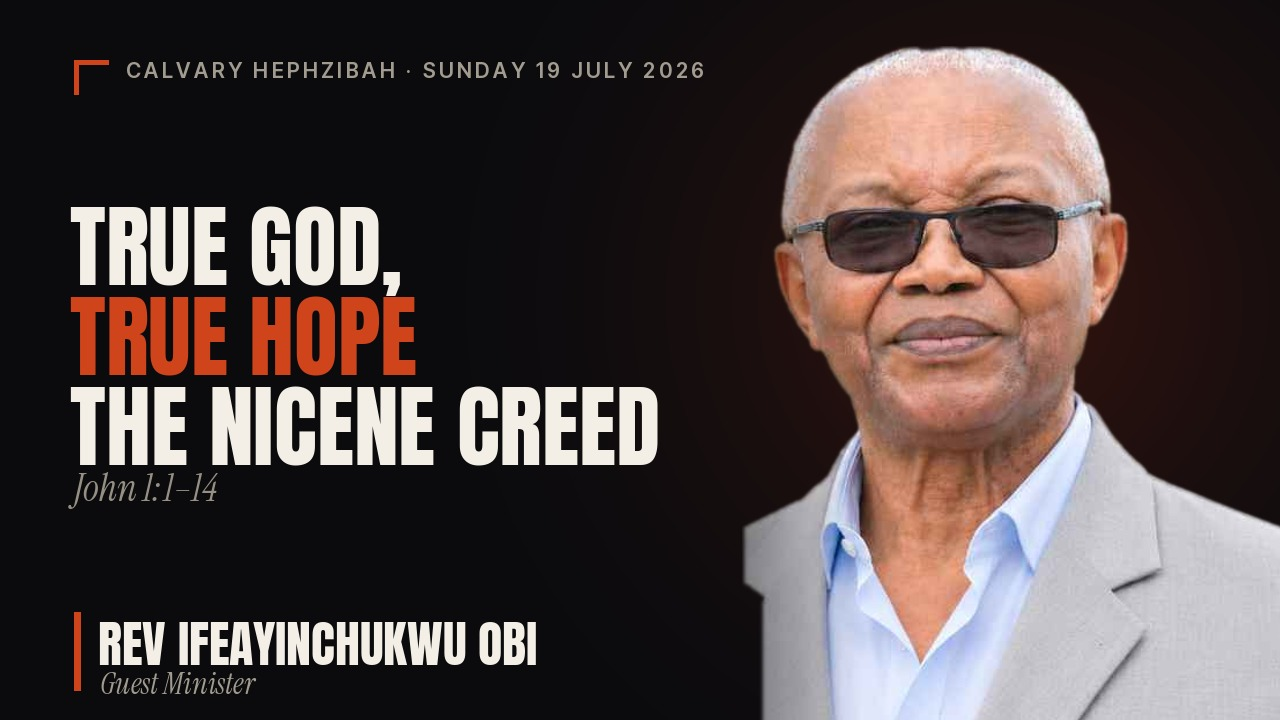
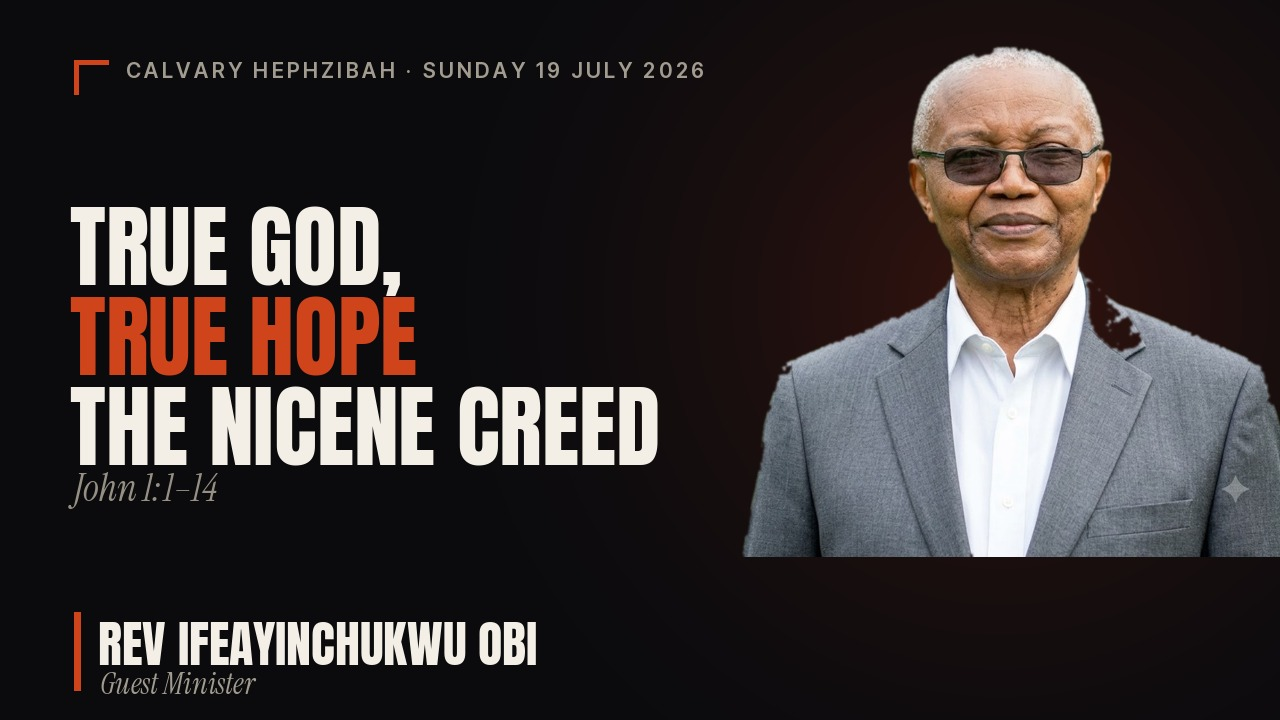
19 Jul: regenerate sermon thumbnail with Rev Obi's new headshot; cache-bust v3
Rebuilt sermon-thumbnail-19-jul-2026.jpg from the new library headshot
(preachers/ifeayinchukwu-obi.jpg) via the standard pipeline — same design,
sharper/cleaner portrait. Bumped briefing OG cache-buster v2 -> v3.

Changed region(s): [[0.5625, 0.0611, 1.0, 1.0]]

diff --git a/media-briefing-19-jul-2026.html b/media-briefing-19-jul-2026.html
@@ -6,11 +6,11 @@
     <title>Calvary Service Run Sheet – 19th July 2026</title>
     <meta property="og:title" content="Calvary Service Run Sheet – 19th July 2026">
     <meta property="og:description" content="Sunday 19th July 2026 | True GOD, True Hope: Why The Nicene Creed | Rev Ifeayinchukwu Obi | Calvary Hephzibah">
-    <meta property="og:image" content="https://calvaryhfgc.github.io/calvaryhephzibah/sermon-thumbnail-19-jul-2026.jpg?v=2">
+    <meta property="og:image" content="https://calvaryhfgc.github.io/calvaryhephzibah/sermon-thumbnail-19-jul-2026.jpg?v=3">
     <meta property="og:image:width" content="1280">
     <meta property="og:image:height" content="720">
     <meta name="twitter:card" content="summary_large_image">
-    <meta name="twitter:image" content="https://calvaryhfgc.github.io/calvaryhephzibah/sermon-thumbnail-19-jul-2026.jpg?v=2">
+    <meta name="twitter:image" content="https://calvaryhfgc.github.io/calvaryhephzibah/sermon-thumbnail-19-jul-2026.jpg?v=3">
     <link rel="preconnect" href="https://fonts.googleapis.com">
     <link rel="preconnect" href="https://fonts.gstatic.com" crossorigin>
     <link href="https://fonts.googleapis.com/css2?family=Cormorant+Garamond:wght@600;700&family=DM+Sans:wght@400;500;600;700&display=swap" rel="stylesheet">
@@ -242,7 +242,7 @@
             <div class="serm-preacher">Rev Ifeayinchukwu Obi · Guest Minister</div>
             <h3 class="serm-title">True GOD, True Hope: Why The Nicene Creed</h3>
             <div style="font-size:13px;color:rgba(255,255,255,0.6);margin-bottom:14px;">John 1:1–14</div>
-            <img src="https://calvaryhfgc.github.io/calvaryhephzibah/sermon-thumbnail-19-jul-2026.jpg?v=2" alt="Rev Ifeayinchukwu Obi — True GOD, True Hope: Why The Nicene Creed" class="serm-thumb">
+            <img src="https://calvaryhfgc.github.io/calvaryhephzibah/sermon-thumbnail-19-jul-2026.jpg?v=3" alt="Rev Ifeayinchukwu Obi — True GOD, True Hope: Why The Nicene Creed" class="serm-thumb">
             <div class="serm-note"><span>💡</span><span>Display sermon thumbnail for 30 seconds as Rev Obi comes up to preach.</span></div>
         </div>
     </div>
